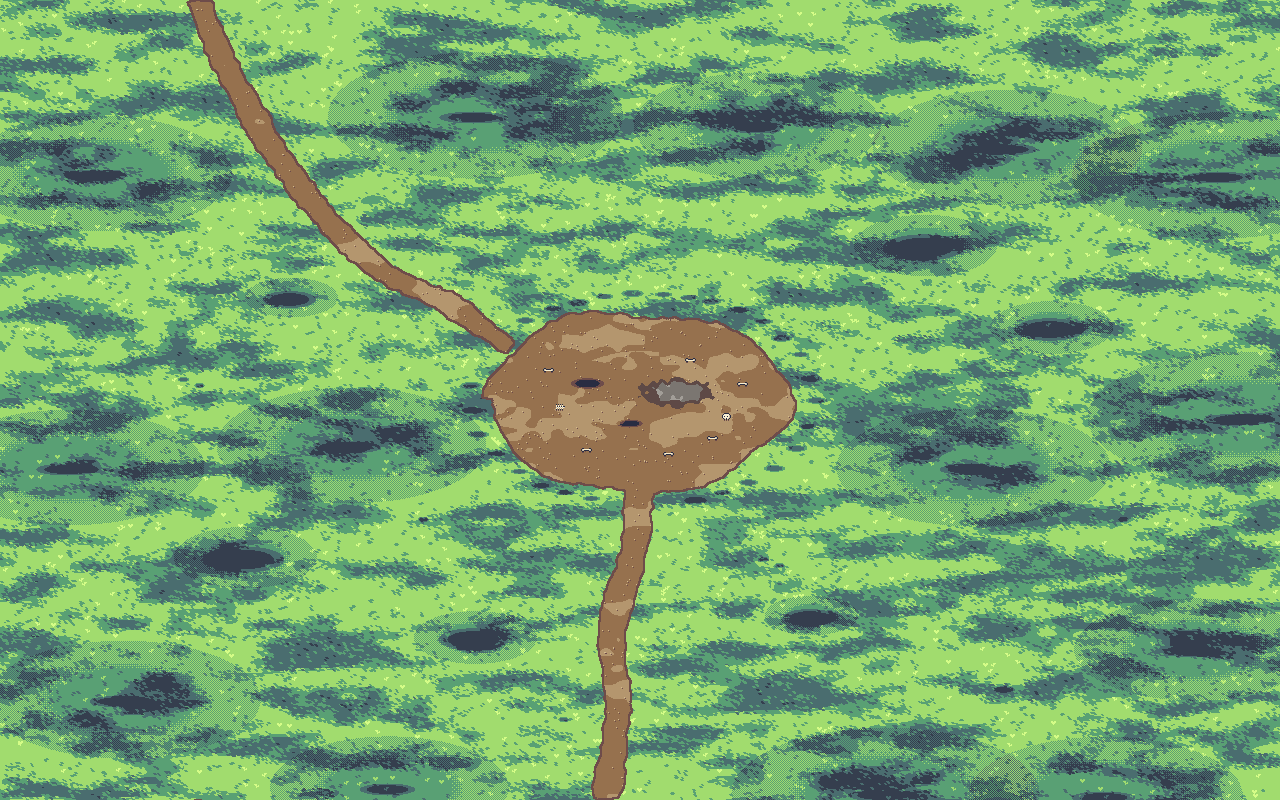
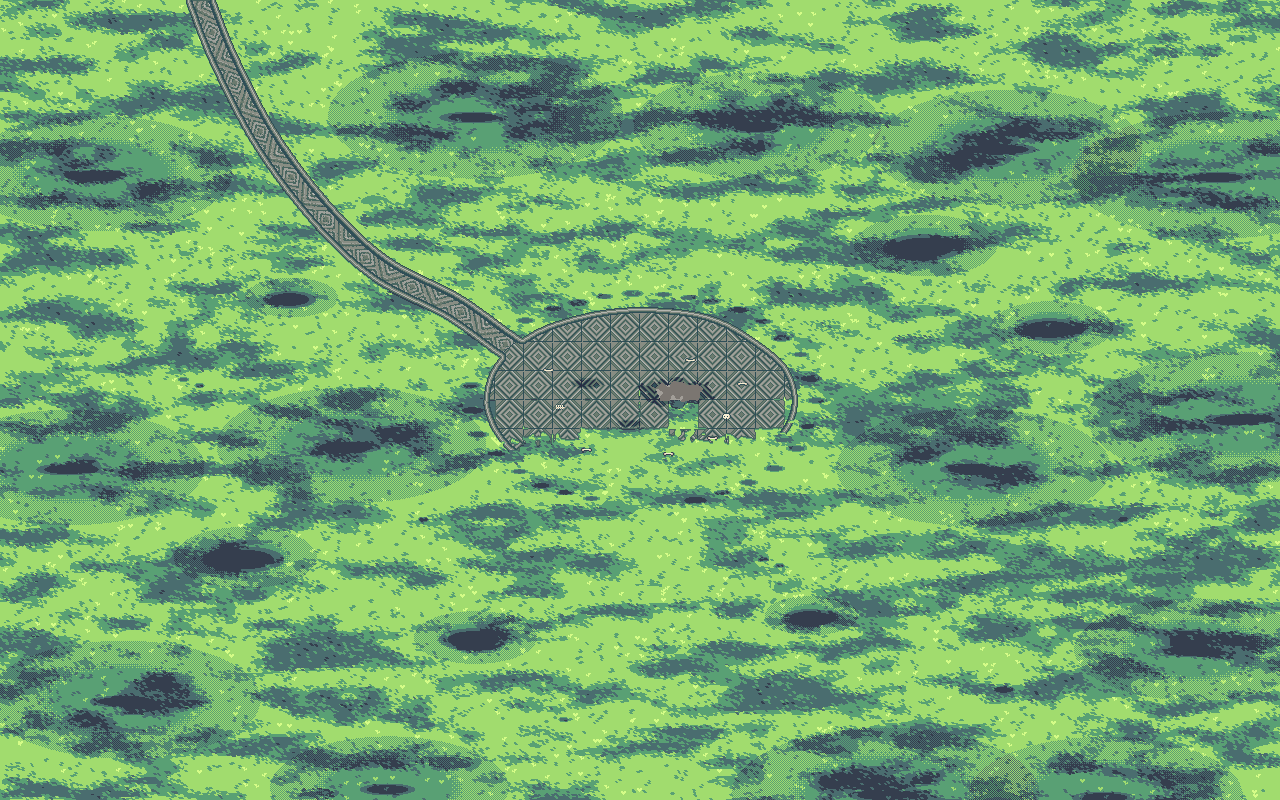
Pasto del goblin: metà recinto di mattoni, metà prato senza sentiero
Bru: il pavimento "metà di mattoni come la scena successiva e la metà da
dove si arriva senza sentiero, solo radura".

- La metà di nord del recinto è lastricata coi mattoni della pianura aperta
  (lo stesso kit delle strade di Bru, i colori presi dalla mappa del
  ruscello): mattonelle coi rombi del nodo, il cordolo lungo il giro. Verso
  sud il lastricato è rotto a mattonelle (qualcuna manca, alcune spezzate,
  cocci nel prato, erba nelle fughe vicino alla rottura).
- Dal varco di nord-ovest la strada di mattoni (il motivo del kit piegato
  lungo la curva, come al ruscello) al posto del sentiero di terra.
- La metà di sud, da dove arriva Lei, è prato: niente sentiero, le ossa
  restano nell'erba. Attorno al fuoco i mattoni anneriti e la cenere grigia.
- Le ombre e le ossa sul prato scendono lungo la rampa del prato, sui
  mattoni lungo quella della pietra. Testo della pagina aggiornato.

Claude-Session: https://claude.ai/code/session_01AE7uzpDH1Lo1PHb29aXJxZ

Changed region(s): [[0.125, 0.0, 0.625, 1.0]]

diff --git a/strumenti/livelli/pasto_goblin.py b/strumenti/livelli/pasto_goblin.py
@@ -4,13 +4,16 @@
 #
 #   python3 strumenti/livelli/pasto_goblin.py [anteprima.png]      (serve numpy e Pillow)
 #
-# Una radura di terra battuta dentro un recinto di massi, nel prato; al centro il goblin (strumenti/nemici/
-# goblin_tipico) che mangia davanti al fuoco, con la carne sullo spiedo, un tronco per sedersi e le ossa sparse. Il
-# sentiero arriva da sud (dalla capsula, da dove arriva Lei) ed entra dal varco di sotto; dal varco di nord-ovest
-# un altro sentiero va verso la pianura aperta. Attorno il prato coi fiori al vento e gli alberi esotici, come al
-# ruscello (stessi pezzi, stesso prato, stesse regole delle tavolozze di Bru).
+# Una radura dentro un recinto di massi, nel prato; al centro il goblin (strumenti/nemici/goblin_tipico) che mangia
+# davanti al fuoco, con la carne sullo spiedo, un tronco per sedersi e le ossa sparse. Bru: il pavimento "meta' di
+# mattoni come la scena successiva e la meta' da dove si arriva senza sentiero, solo radura". Quindi la meta' di nord
+# del recinto e' lastricata coi mattoni della pianura aperta (la tappa dopo: la strada del ruscello, stesso kit di
+# Bru, stessi colori), col cordolo lungo il giro e rotta verso sud; la meta' di sud, da dove arriva Lei (dalla
+# capsula), e' prato, senza sentiero, e le ossa restano nell'erba. Dal varco di nord-ovest la strada di mattoni va
+# verso la pianura. Attorno il prato coi fiori al vento e gli alberi esotici, come al ruscello (stessi pezzi, stesso
+# prato, stesse regole delle tavolozze di Bru).
 #
-# Scrive art/livelli/pasto.png (il terreno con le cose piatte: terra, cenere, ossa, ombre), pasto_pezzi.json (le cose
+# Scrive art/livelli/pasto.png (il terreno con le cose piatte: mattoni, cenere, ossa, ombre), pasto_pezzi.json (le cose
 # in piedi), pasto_passi.png (dove si cammina), pasto_prato.png (dove i passi pestano l'erba), pasto_fiori.json,
 # pasto.json; i pezzi nuovi in art/livelli/pezzi/pasto/ (il fuoco a fotogrammi, il tronco, il goblin che mastica).
 import json
@@ -35,10 +38,11 @@ GOBLIN = os.path.join(QUI, '..', 'nemici', 'goblin_tipico', 'goblin_tipico.png')
 W, H = 1280, 800
 C = (640, 400)                          # il centro del recinto
 ANELLO = (172, 106)                     # il recinto di massi: i raggi dell'ellisse (vista di tre quarti)
-RADURA = (150, 90)                      # la terra battuta dentro
+LASTRICO = (156, 94)                    # il lastricato: l'ellisse di cui resta la meta' di nord
+ROTTO = 434                             # la riga (mossa) dove il lastricato si rompe: sotto, verso chi arriva, prato
 VARCHI = [(90, 12), (213, 12)]          # i varchi nel recinto: angolo (0 a destra, 90 giu') e mezza ampiezza
-SUD = [(640, 500), (632, 560), (612, 630), (618, 710), (604, 800)]      # il sentiero che arriva da sud
-NO = [(503, 342), (452, 306), (380, 268), (322, 214), (266, 140), (224, 60), (200, 0)]   # e quello verso la pianura
+# la strada di mattoni verso la pianura: parte dal lastricato ed esce dal varco di nord-ovest
+STRADA = [(548, 372), (503, 342), (452, 306), (380, 268), (322, 214), (266, 140), (224, 60), (200, 0)]
 PRATO = rr.PRATO
 TERRA = np.array(_tav.rampa((150, 112, 78), 5, 0.30, 0.80), float)       # profondo, scuro, medio, chiaro, luce
 CENERE = np.array(_tav.rampa((110, 104, 100), 4, 0.25, 0.70), float)
@@ -46,6 +50,12 @@ OSSO = np.array(_tav.rampa((226, 214, 186), 4, 0.42, 0.95), float)
 CORTECCIA = np.array(_tav.rampa((120, 82, 58), 5, 0.24, 0.72), float)
 CARNE = np.array(_tav.rampa((150, 72, 52), 4, 0.28, 0.72), float)
 PIETRA = rr.P_NUOVA
+# i mattoni della pianura: i sei colori del kit di Bru (terreni/strade_radenna, dal piu' scuro al piu' chiaro) vanno,
+# nella mappa del ruscello, sui gradini 1-6 della rampa della pietra (riadatta(), controllato sulla mappa vera)
+KIT = [(44, 71, 50), (66, 84, 69), (84, 103, 85), (108, 122, 105), (120, 135, 117), (141, 155, 135)]
+MATTONI = PIETRA[1:7]
+CORDOLO = [0, 2, 5, 3, 1, 0]            # il cordolo dal bordo verso dentro, come nel kit (scuro, luce, solco)
+MOTIVO = 'diamanti'                        # dentro il lastricato: 'righe' (la spina della strada) o 'diamanti' (il nodo)
 FIAMMA = np.array([(176, 58, 52), (232, 112, 48), (252, 172, 66), (255, 222, 120), (255, 248, 214)], float)
 BRACE = np.array([(200, 70, 44), (246, 136, 56), (255, 200, 98)], float)
 
@@ -76,7 +86,7 @@ OSSA = [('osso', 712, 440), ('osso_s', 586, 452), ('teschio', 726, 420), ('osso'
 PARTENZA = [612, 776]
 STANZE = [
     {"nome": "Il pasto del goblin", "rett": [470, 290, 810, 510]},
-    {"nome": "Il sentiero", "rett": [540, 510, 700, 800]},
+    {"nome": "L'arrivo", "rett": [500, 510, 760, 800]},
     {"nome": "Verso la pianura", "rett": [160, 0, 510, 350]},
     {"nome": "Il prato", "rett": [0, 0, W, H]},
 ]
@@ -299,73 +309,119 @@ def curva(punti, passo=1.0):
     return rr.curva(punti, passo)
 
 
-def distanza_da(linea):
-    """per ogni pixel la distanza dalla linea (spezzata fitta)"""
+def _kit(nome):
+    """un pezzo del kit delle strade di Bru come indici di KIT (-1 dove e' vuoto)"""
+    a = np.asarray(Image.open(os.path.join(LIV, 'terreni', 'strade_radenna', nome)).convert('RGBA')).astype(int)
+    k = np.full(a.shape[:2], -1)
+    for i, c in enumerate(KIT):
+        k[(a[..., 3] > 0) & np.all(a[..., :3] == c, -1)] = i
+    assert ((k >= 0) == (a[..., 3] > 0)).all(), nome
+    return k
+
+
+def _pulisci(m, y0, y1, x0, x1, isole=10, buchi=6):
+    """nel riquadro: via i pezzetti di mattone piu' piccoli di 'isole' pixel e i buchi piu' piccoli di 'buchi'"""
+    sub = m[y0:y1, x0:x1].copy()
+    for valore, minimo in ((True, isole), (False, buchi)):
+        visti = np.zeros(sub.shape, bool)
+        h, w = sub.shape
+        for y, x in zip(*np.nonzero(sub == valore)):
+            if visti[y, x]:
+                continue
+            pezzo, pila = [], [(y, x)]
+            visti[y, x] = True
+            while pila:
+                cy, cx = pila.pop()
+                pezzo.append((cy, cx))
+                for yy, xx in ((cy + 1, cx), (cy - 1, cx), (cy, cx + 1), (cy, cx - 1)):
+                    if 0 <= yy < h and 0 <= xx < w and not visti[yy, xx] and sub[yy, xx] == valore:
+                        visti[yy, xx] = True
+                        pila.append((yy, xx))
+            if len(pezzo) < minimo:
+                for cy, cx in pezzo:
+                    sub[cy, cx] = not valore
+    m = m.copy()
+    m[y0:y1, x0:x1] = sub
+    return m
+
+
+def lastricato():
+    """i mattoni: la meta' di nord del recinto lastricata, mattonelle quadrate coi rombi del nodo del kit (MOTIVO),
+    il cordolo lungo il giro e lungo la strada. Verso sud il lastricato e' rotto a mattonelle: sopra una linea mossa
+    sono intere (qualcuna manca), su quella linea sono spezzate, sotto non ci sono piu' (qualche coccio rimasto nel
+    prato), e vicino alla rottura l'erba cresce nelle fughe; sotto c'e' solo prato. La strada di mattoni esce dal
+    varco di nord-ovest (il motivo del kit piegato lungo la curva, come al ruscello). Ritorna la maschera e l'indice
+    di MATTONI"""
     yy, xx = np.mgrid[0:H, 0:W]
-    d = np.full((H, W), 1e9)
-    for (x, y) in linea[::3]:
-        d = np.minimum(d, (xx - x) ** 2 + (yy - y) ** 2)
-    return np.sqrt(d)
-
-
-def terra_battuta():
-    """dove c'e' la terra: la radura (ellisse col bordo mosso) e i due sentieri (larghezza che cambia)"""
-    yy, xx = np.mgrid[0:H, 0:W]
-    ang = np.arctan2((yy - C[1]) / RADURA[1], (xx - C[0]) / RADURA[0])
-    giro = rr.rumore1(400, 31, 4)[((ang + np.pi) / (2 * np.pi) * 359).astype(int)]
-    r = np.sqrt(((xx - C[0]) / RADURA[0]) ** 2 + ((yy - C[1]) / RADURA[1]) ** 2)
-    radura = r < 1 + (giro - 0.5) * 0.16
-    terra = radura.copy()
-    for punti, larg in ((SUD, 15), (NO, 13)):
-        lin, u = curva(punti)
-        d = distanza_da(lin)
-        mosso = larg + (_prato.liscio(H, W, 40, 40, 5) - 0.5) * 7
-        terra |= d < mosso
-    # il bordo sfrangiato: qualche ciuffo di prato entra nella terra e viceversa (a scacchi sul confine)
-    bordo = _prato.liscio(H, W, 6, 6, 9)
-    n = np.zeros((H, W), int)
-    for dy in (-2, -1, 0, 1, 2):
-        for dx in (-2, -1, 0, 1, 2):
-            n += np.roll(np.roll(terra, dy, 0), dx, 1)
-    vicino = (n > 4) & (n < 21)
-    terra = np.where(vicino, (n / 25.0 + (bordo - 0.5) * 0.7) > 0.5, terra)
-    return terra, radura
-
-
-def colora_terra(out, terra):
-    """la terra battuta: il medio; piu' chiara dove si cammina di piu' (macchie larghe e morbide, il mezzo della
-    radura e dei sentieri), un gradino piu' scura sul bordo (la polvere contro l'erba); sassolini con luce e ombra"""
-    F = _prato.liscio(H, W, 46, 22, 41) * 0.7 + _prato.liscio(H, W, 12, 7, 42) * 0.3
-    k = np.full((H, W), 2)
-    k[F > 0.64] = 3
-    yy, xx = np.mgrid[0:H, 0:W]
-    centro = np.sqrt(((xx - C[0]) / (RADURA[0] * 0.55)) ** 2 + ((yy - C[1]) / (RADURA[1] * 0.55)) ** 2) < 1
-    k[centro & (F > 0.48)] = 3
-    n = np.zeros((H, W), int)
-    for dy in (-2, 0, 2):
-        for dx in (-2, 0, 2):
-            n += np.roll(np.roll(terra, dy, 0), dx, 1)
-    k[n < 9] = 1
-    col = TERRA[k]
-    rng = np.random.default_rng(12)
-    ys, xs = np.nonzero(terra & (n == 9))
-    for i in rng.choice(len(ys), len(ys) // 170, replace=False):          # i sassolini: luce e ombra
-        y, x = ys[i], xs[i]
-        if y + 1 < H and x + 1 < W and terra[y + 1, x + 1]:
-            col[y, x] = TERRA[4]; col[y + 1, x + 1] = TERRA[1]
-    out[terra] = col[terra]
-    return out
+    ang = np.arctan2((yy - C[1]) / LASTRICO[1], (xx - C[0]) / LASTRICO[0])
+    giro = rr.rumore1(400, 23, 7)[((ang + np.pi) / (2 * np.pi) * 359).astype(int)]
+    r = np.sqrt(((xx - C[0]) / LASTRICO[0]) ** 2 + ((yy - C[1]) / LASTRICO[1]) ** 2)
+    ellisse = r < 1 + (giro - 0.5) * 0.03
+    lin, u = curva(STRADA)
+    D, S, V = rr.campo(lin, u, 18, H, 0)
+    via = D < 14.5
+    tutto = ellisse | via                                # fin dove arriva il cordolo (sulla rottura no)
+    # le mattonelle (29 pixel, come i rombi del nodo): il mezzo di ognuna, un numero a caso per ognuna, e la riga
+    # della rottura che passa li'
+    T = 29
+    ty, tx = (yy - C[1]) // T, (xx - C[0]) // T
+    yc, xc = C[1] + ty * T + T / 2.0, C[0] + tx * T + T / 2.0
+    caso = (((ty + 50) * 7919 + (tx + 50) * 104729) % 1000) / 1000.0
+    caso2 = (((ty + 50) * 15485863 + (tx + 50) * 32452843) % 997) / 997.0
+    onda = rr.rumore1(W + T, 61, 11)
+    riga = ROTTO + (onda[np.clip(xc, 0, W - 1).astype(int)] - 0.5) * 30
+    intera = yc < riga - 9
+    sparita = yc > riga + 9
+    f = _prato.liscio(H, W, 5, 4, 13)
+    tiene = intera | (~intera & ~sparita & (yy < riga + (f - 0.5) * 16))
+    tiene &= ~(intera & (yc > riga - 9 - T) & (caso < 0.13))         # qualcuna manca, nella fila sopra la rottura
+    ox, oy = (caso2 - 0.5) * 12, (caso - 0.5) * 10                   # un coccio in qualche mattonella sparita
+    coccio = sparita & (yc < riga + 9 + 2 * T) & (caso2 > 0.72) & \
+        (((xx - xc - ox) / 7.0) ** 2 + ((yy - yc - oy) / 5.0) ** 2 + (f - 0.5) * 1.4 < 1)
+    fughe = ((yy - C[1]) % T == T - 1) | ((xx - C[0]) % T == T - 1)
+    erba_fughe = fughe & (yy > riga - 1.5 * T) & (_prato.liscio(H, W, 3, 3, 17) > 0.62)     # ciuffetti corti
+    # il cordolo non e' a mattonelle: si spezza dove passa la linea mossa, pixel per pixel
+    d = rr._distanza(~tutto, 7)
+    cordolo = ellisse & (d <= 6)
+    sul_cordolo = yy < ROTTO + (onda[xx] - 0.5) * 30 + (f - 0.5) * 16
+    mat = (ellisse & ~cordolo & (tiene | coccio) & ~erba_fughe) | (cordolo & sul_cordolo) | via
+    mat = _pulisci(mat, C[1] - LASTRICO[1] - 4, C[1] + LASTRICO[1] + 4, C[0] - LASTRICO[0] - 4,
+                   C[0] + LASTRICO[0] + 4)
+    st = _kit('strada_verticale.png')
+    idx = np.full((H, W), -1)
+    if MOTIVO == 'diamanti':
+        blocco = _kit('nodo.png')[6:35, 6:35]            # i rombi del nodo (la fuga scura sotto e a destra)
+        dentro = blocco[(yy - C[1]) % T, (xx - C[0]) % T]
+    else:
+        dentro = st[(yy - C[1]) % 55, 6 + (xx - C[0]) % 16]     # le righe a spina della strada, una accanto all'altra
+    idx[ellisse] = dentro[ellisse]
+    fuori = via & ~ellisse
+    col = np.clip(np.rint(V + 14.5).astype(int), 6, 22)
+    idx[fuori] = st[S.astype(int) % 55, col][fuori]
+    # il solco dove la strada entra nel lastricato
+    attacco = fuori & (np.roll(ellisse, 1, 0) | np.roll(ellisse, -1, 0) | np.roll(ellisse, 1, 1) | np.roll(ellisse, -1, 1))
+    idx[attacco] = 0
+    for k in range(1, 7):
+        idx[mat & (d == k)] = CORDOLO[k - 1]
+    # la rottura: i mattoni che toccano il prato (fuori dal cordolo) hanno lo spigolo scuro
+    vicini = np.ones((H, W), bool)
+    for dy, dx in ((1, 0), (-1, 0), (0, 1), (0, -1)):
+        vicini &= np.roll(np.roll(mat, dy, 0), dx, 1)
+    idx[mat & ~vicini & (d > 6)] = 1
+    idx[~mat] = -1
+    return mat, idx
 
 
 def cenere(out):
-    """attorno al fuoco la terra annerita e la cenere"""
+    """attorno al fuoco i mattoni anneriti (due gradini piu' giu' sulla rampa della pietra) e in mezzo la cenere
+    grigia"""
     yy, xx = np.mgrid[0:H, 0:W]
     fx, fy = FUOCO[0], FUOCO[1] - 2
     r = np.sqrt(((xx - fx) / 34.0) ** 2 + ((yy - fy) / 13.0) ** 2)
     f = _prato.liscio(H, W, 5, 5, 61)
     m1 = r + (f - 0.5) * 0.5 < 1.0
     m2 = r + (f - 0.5) * 0.4 < 0.7
-    out[m1] = CENERE[1]
+    out = scendi(out, 2, m1)
     out[m2] = CENERE[2]
     out[m2 & (f > 0.62)] = CENERE[3]
     return out
@@ -378,28 +434,48 @@ FORME = {
 }
 
 
-def ossa(out):
-    """le ossa sparse per terra (piatte): luce in alto, ombra sotto, contorno della terra scura"""
-    col = {'L': OSSO[3], 'O': OSSO[2], 'o': TERRA[0], 'k': TERRA[0]}
+def scendi(out, quanto, maschera=None):
+    """i pixel scendono di 'quanto' gradini (per pixel) lungo la rampa del loro materiale: il prato (tre al piu') o
+    la pietra dei mattoni (due al piu'); gli altri colori restano"""
+    q = np.rint(out).astype(int)
+    quanto = np.broadcast_to(quanto, (H, W))
+    if maschera is None:
+        maschera = quanto > 0
+    for rampa, extra, massimo in ((rr.PRATO_RAMPA, (PRATO['petalo'], PRATO['cuore']), 3), (PIETRA, (), 2)):
+        pos = np.full((H, W), -1)
+        for i, c in enumerate(np.asarray(rampa).astype(int)):
+            pos[np.all(q == c, axis=-1)] = i
+        for c in extra:                                  # i fiorellini del prato: come la luce
+            pos[np.all(q == np.array(c), axis=-1)] = len(rampa) - 1
+        m = maschera & (pos >= 0) & (quanto > 0)
+        out[m] = np.asarray(rampa, float)[np.maximum(0, pos[m] - np.minimum(quanto[m], massimo))]
+    return out
+
+
+def ossa(out, mat):
+    """le ossa sparse per terra (piatte): luce in alto, ombra sotto, il contorno del piu' scuro del terreno su cui
+    stanno (nell'erba, dove si arriva, o sui mattoni) e sotto un'ombrina di un gradino"""
+    ombrina = np.zeros((H, W), bool)
     for (n, x0, y0) in OSSA:
         forma = FORME[n.replace('_s', '')]
         if n.endswith('_s'):
             forma = [r[::-1] for r in forma[::-1]]
         h, w = len(forma), len(forma[0])
+        scuro = MATTONI[0] if mat[y0 - h // 2, x0] else rr.PRATO_RAMPA[0]
+        col = {'L': OSSO[3], 'O': OSSO[2], 'o': scuro, 'k': scuro}
         for j, r in enumerate(forma):
             for i, ch in enumerate(r):
                 if ch in col:
                     out[y0 - h + j, x0 - w // 2 + i] = col[ch]
-        for i in range(w):                               # l'ombrina sotto (un gradino di terra)
-            y, x = y0, x0 - w // 2 + i
-            if forma[-1][i] != '.' and 0 <= y < H:
-                out[y, x] = TERRA[1]
-    return out
+        for i in range(w):
+            if forma[-1][i] != '.' and 0 <= y0 < H:
+                ombrina[y0, x0 - w // 2 + i] = True
+    return scendi(out, 1, ombrina)
 
 
-def ombre(out, terra, tutte):
-    """le ombre delle cose in piedi: sul prato scendono di gradini lungo la sua rampa (come al ruscello); sulla terra
-    un gradino della sua rampa"""
+def ombre(out, tutte):
+    """le ombre delle cose in piedi: sul prato scendono di gradini lungo la sua rampa (come al ruscello), sui mattoni
+    lungo quella della pietra"""
     bayer = np.array([[0, 8, 2, 10], [12, 4, 14, 6], [3, 11, 1, 9], [15, 7, 13, 5]]) / 16.0
     giu = np.zeros((H, W), int)
     for (n, f, fx, fy, piede, imp) in tutte:
@@ -425,21 +501,7 @@ def ombre(out, terra, tutte):
                     e = ((x - cx) / rx) ** 2 + ((y - cy) / ry) ** 2
                     if e <= 1:
                         giu[y, x] += 2 if e < 0.55 else 1
-    q = np.rint(out).astype(int)
-    rampa = rr.PRATO_RAMPA
-    pos = np.full((H, W), -1)
-    for i, c in enumerate(rampa.astype(int)):
-        pos[np.all(q == c, axis=-1)] = i
-    for k in ('petalo', 'cuore'):
-        pos[np.all(q == np.array(PRATO[k]), axis=-1)] = 4
-    sul_prato = (pos >= 0) & (giu > 0)
-    out[sul_prato] = rampa[np.maximum(0, pos[sul_prato] - np.minimum(giu[sul_prato], 3))]
-    pt = np.full((H, W), -1)
-    for i, c in enumerate(TERRA.astype(int)):
-        pt[np.all(q == c, axis=-1)] = i
-    sulla_terra = (pt >= 0) & (giu > 0)
-    out[sulla_terra] = TERRA[np.maximum(0, pt[sulla_terra] - np.minimum(giu[sulla_terra], 2))]
-    return out, giu > 0
+    return scendi(out, giu), giu > 0
 
 
 def passi(tutte, bordi=True):
@@ -478,21 +540,24 @@ def main():
     fiori_segni = []
     passi_prato, _ = _prato.prato(H, W, seme=58, tav=PRATO, fiori=fiori_segni)
     out = passi_prato[3].astype(float)
-    terra, radura = terra_battuta()
-    out = colora_terra(out, terra)
+    mat, idx = lastricato()
+    out[mat] = MATTONI[idx[mat]]
+    # i mattoni rotti sono un filo piu' alti del prato: sotto lo spigolo, sull'erba, un'ombrina di un gradino
+    sotto = np.zeros((H, W), bool)
+    sotto[1:] = mat[:-1] & ~mat[1:]
+    out = scendi(out, 1, sotto)
     out = cenere(out)
-    out = ossa(out)
-    senza = out.copy()
-    out, ombra = ombre(out, terra, tutte)
+    out = ossa(out, mat)
+    out, ombra = ombre(out, tutte)
     _salva(out, os.path.join(LIV, 'pasto.png'))
     cammino = passi(tutte)
     _salva(cammino, os.path.join(LIV, 'pasto_passi.png'))
-    # dove i passi pestano l'erba: i colori del prato (anche all'ombra), non la terra
+    # dove i passi pestano l'erba: i colori del prato (anche all'ombra), non i mattoni
     q = np.rint(out).astype(int)
     erba = np.zeros((H, W), bool)
     for c in list(PRATO.values()):
         erba |= np.all(q == np.array(c), axis=-1)
-    erba &= ~terra
+    erba &= ~mat
     pr = np.zeros((H, W, 4), np.uint8); pr[erba] = (255, 255, 255, 255)
     _salva(pr, os.path.join(LIV, 'pasto_prato.png'))
     # i fiori in piedi: dove il prato li avrebbe messi, nel prato al sole e dove si cammina
@@ -528,7 +593,8 @@ def main():
         f.write('\n')
     pianta = {
         "_nota": "Il pasto del goblin, fatto da strumenti/livelli/pasto_goblin.py: la radura nel recinto di massi col "
-                 "goblin al centro che mangia davanti al fuoco, il sentiero da sud e quello verso la pianura.",
+                 "goblin al centro che mangia davanti al fuoco; la meta' di nord lastricata coi mattoni della pianura, "
+                 "con la strada che esce verso la pianura, quella di sud (da dove si arriva) solo prato.",
         "nome": "Il pasto del goblin",
         "mappa": "pasto.png", "scala": 1, "pixel": 1, "ingrandimento": 2,
         "pezzi": "pasto_pezzi.json", "passi": "pasto_passi.png", "prato": "pasto_prato.png", "fiori": "pasto_fiori.json",

diff --git a/strumenti/prova_corsa/costruisci.py b/strumenti/prova_corsa/costruisci.py
@@ -89,11 +89,13 @@ else:
 # pagina qui, al posto di quelli del ruscello; e dove non c'e' acqua, i comandi dell'acqua nascosti
 TESTI = {
     'pasto': {'titolo': 'Il pasto del goblin',
-              'sotto': "Lei arriva dal sentiero di sud nella radura del recinto di massi: al centro il goblin mangia "
-                       "davanti al fuoco, con la carne sullo spiedo, un tronco per sedersi e le ossa sparse. Il "
-                       "fuoco scoppietta, il goblin mastica; dal varco di nord-ovest un sentiero va verso la pianura. "
-                       "Come al ruscello: le nuvole e le macchie di sole, i fiori al vento, l'erba che si muove ai "
-                       "passi (sulla terra battuta no); se Lei resta ferma si annoia.",
+              'sotto': "Lei arriva dal prato, da sud, ed entra nel recinto di massi: la metà di qua è prato, "
+                       "quella di là è lastricata coi mattoni della pianura aperta, rotti verso sud. Al centro il "
+                       "goblin mangia davanti al fuoco, con la carne sullo spiedo, un tronco per sedersi e le ossa "
+                       "sparse nell'erba e sui mattoni. Il fuoco scoppietta, il goblin mastica; dal varco di "
+                       "nord-ovest la strada di mattoni va verso la pianura. Come al ruscello: le nuvole e le macchie "
+                       "di sole, i fiori al vento, l'erba che si muove ai passi (sui mattoni no); se Lei resta ferma "
+                       "si annoia.",
               'aria': "Il pasto del goblin: clicca e usa le frecce per far correre Lei",
               'carico': "Carico la radura del goblin…"},
 }
